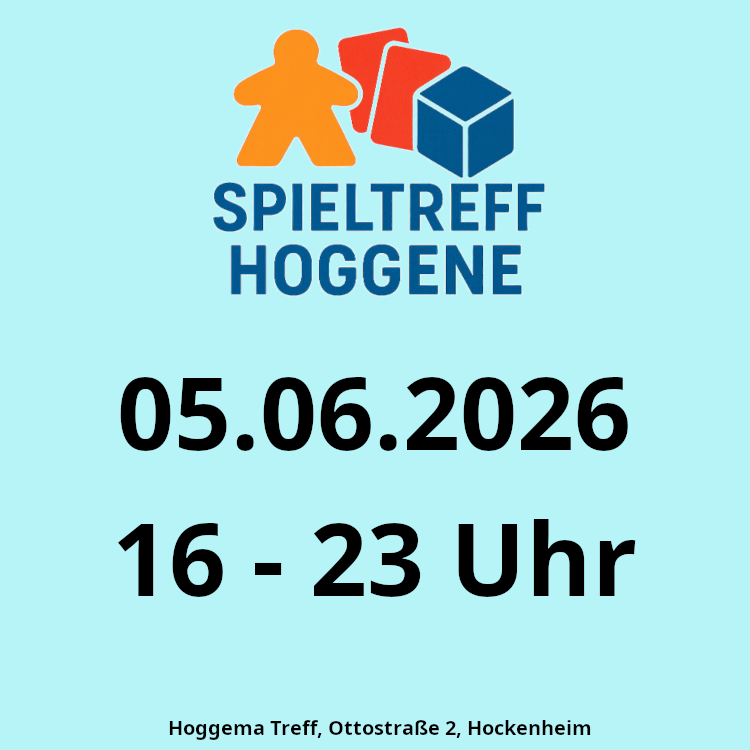
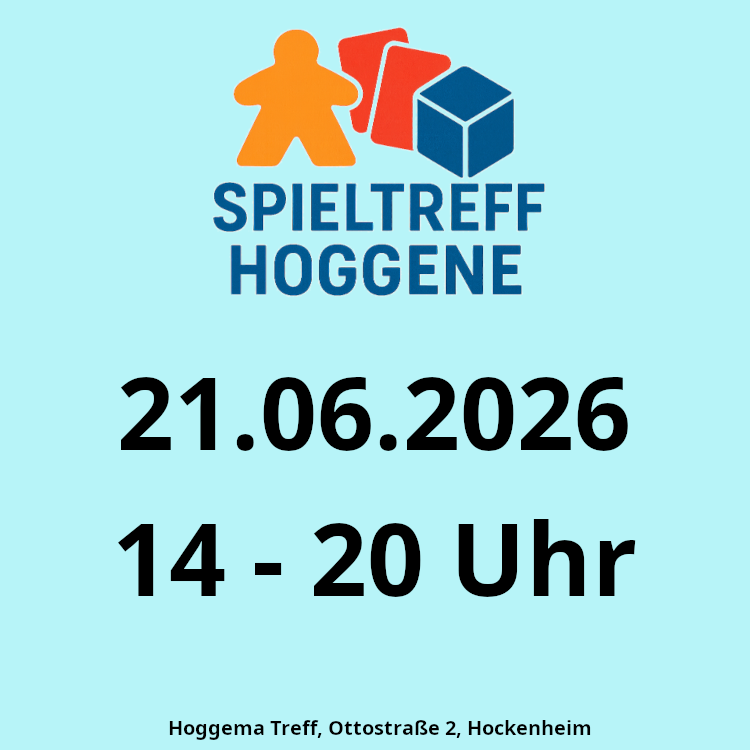
next event

Changed region(s): [[0.1533, 0.4907, 0.3067, 0.6133], [0.2147, 0.6747, 0.3067, 0.7973], [0.4907, 0.7053, 0.5827, 0.7973]]

diff --git a/games.html b/games.html
@@ -54,6 +54,22 @@
                     </thead>
                     <tbody>
                         <tr>
+                            <td>1906 San Francisco</td>
+                            <td>Kenner</td>
+                        </tr>
+                        <tr>
+                            <td>1923 Cotton Club</td>
+                            <td>Kenner</td>
+                        </tr>
+                        <tr>
+                            <td>1980 Sixtinische Kapelle</td>
+                            <td>Familie</td>
+                        </tr>
+                        <tr>
+                            <td>1998 ISS</td>
+                            <td>Kenner</td>
+                        </tr>
+                        <tr>
                             <td>20 Questions</td>
                             <td>Party</td>
                         </tr>
@@ -802,6 +818,10 @@
                             <td>Party</td>
                         </tr>
                         <tr>
+                            <td>Panda Royale</td>
+                            <td>Familie</td>
+                        </tr>
+                        <tr>
                             <td>Pandemic Legacy</td>
                             <td>Experte</td>
                         </tr>
@@ -864,6 +884,10 @@
                         <tr>
                             <td>Poker</td>
                             <td>Party</td>
+                        </tr>
+                        <tr>
+                            <td>Princess Rebel</td>
+                            <td>Familie</td>
                         </tr>
                         <tr>
                             <td>Quacks und Co</td>

diff --git a/index.html b/index.html
@@ -33,8 +33,8 @@
             </div>
             <div class="banner-content">
                 <h1>Brettspiele für Alle</h1>
-                <a href="event20260605.html" class="next-event">Nächster Termin:
-                    <strong>05.06.2026</strong> von <strong>16 bis 23 Uhr</strong></a>
+                <span class="next-event">Nächster Termin:
+                    <strong>21.06.2026</strong> von <strong>14 bis 20 Uhr</strong></span>
             </div>
         </div>
     </header>
@@ -62,7 +62,7 @@
                 </p>
                 <p class="games-list-text">Eine Liste von <strong>verfügbaren Spielen</strong> findet ihr in <a
                         href="games.html">dieser
-                        Übersicht</a>.
+                        Übersicht</a>. Wir bringen zu jedem Termin eine breite Auswahl an Spielen mit.
                 </p>
 
             </div>
@@ -162,12 +162,12 @@
                             <td>16-23 Uhr</td>
                             <td><a href="event20260508.html">Auswahl</a></td>
                         </tr>
-                        <tr class="event-next">
+                        <tr class="event-past">
                             <td>5. Juni 2026</td>
                             <td>16-23 Uhr</td>
                             <td><a href="event20260605.html">Auswahl</a></td>
                         </tr>
-                        <tr class="event-future">
+                        <tr class="event-next">
                             <td>21. Juni 2026</td>
                             <td>14-20 Uhr</td>
                             <td>-</td>
